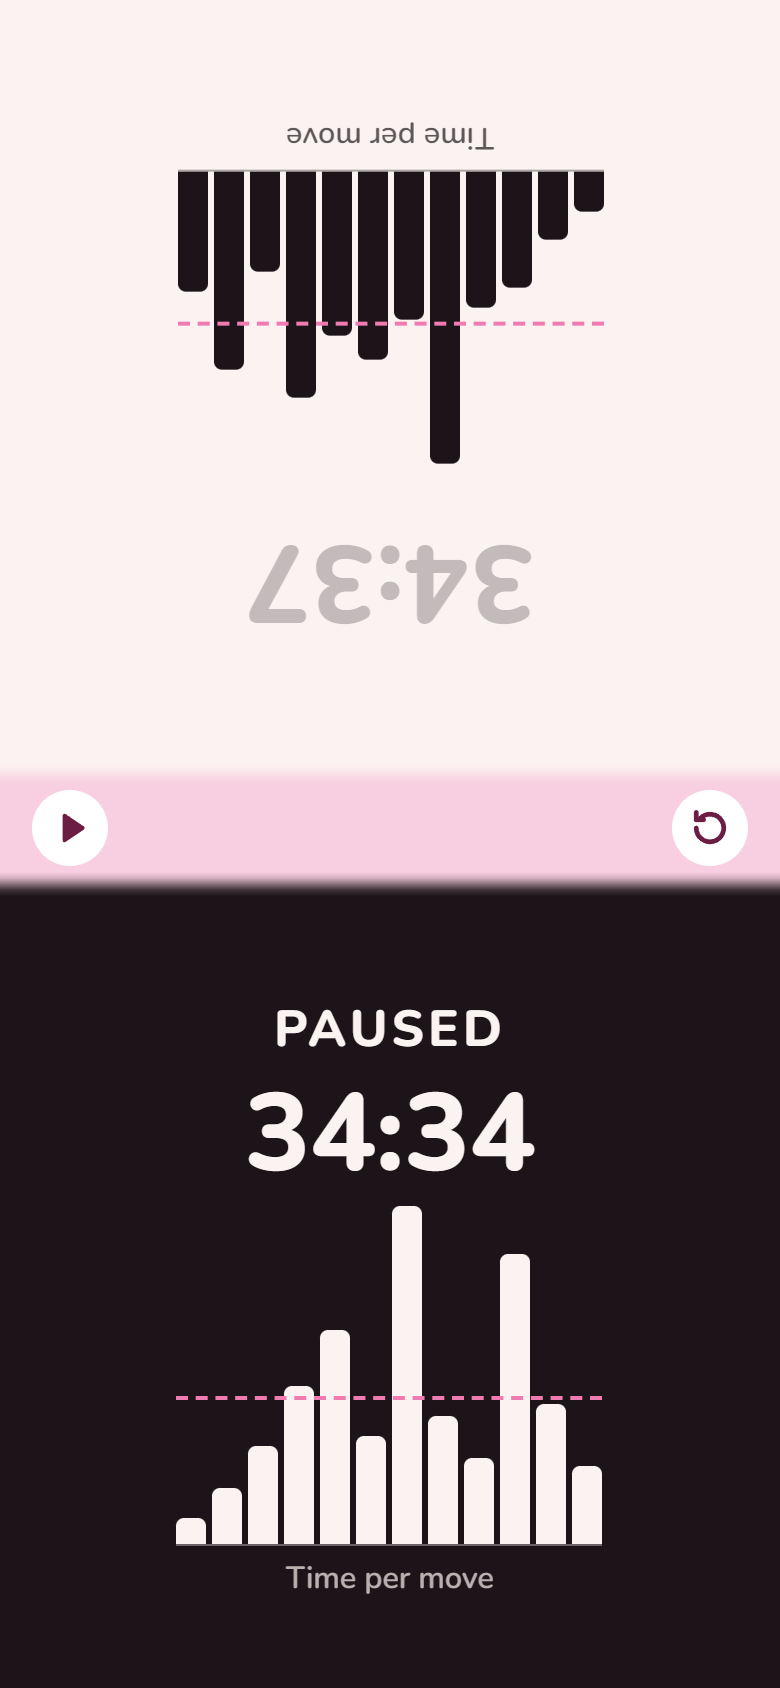
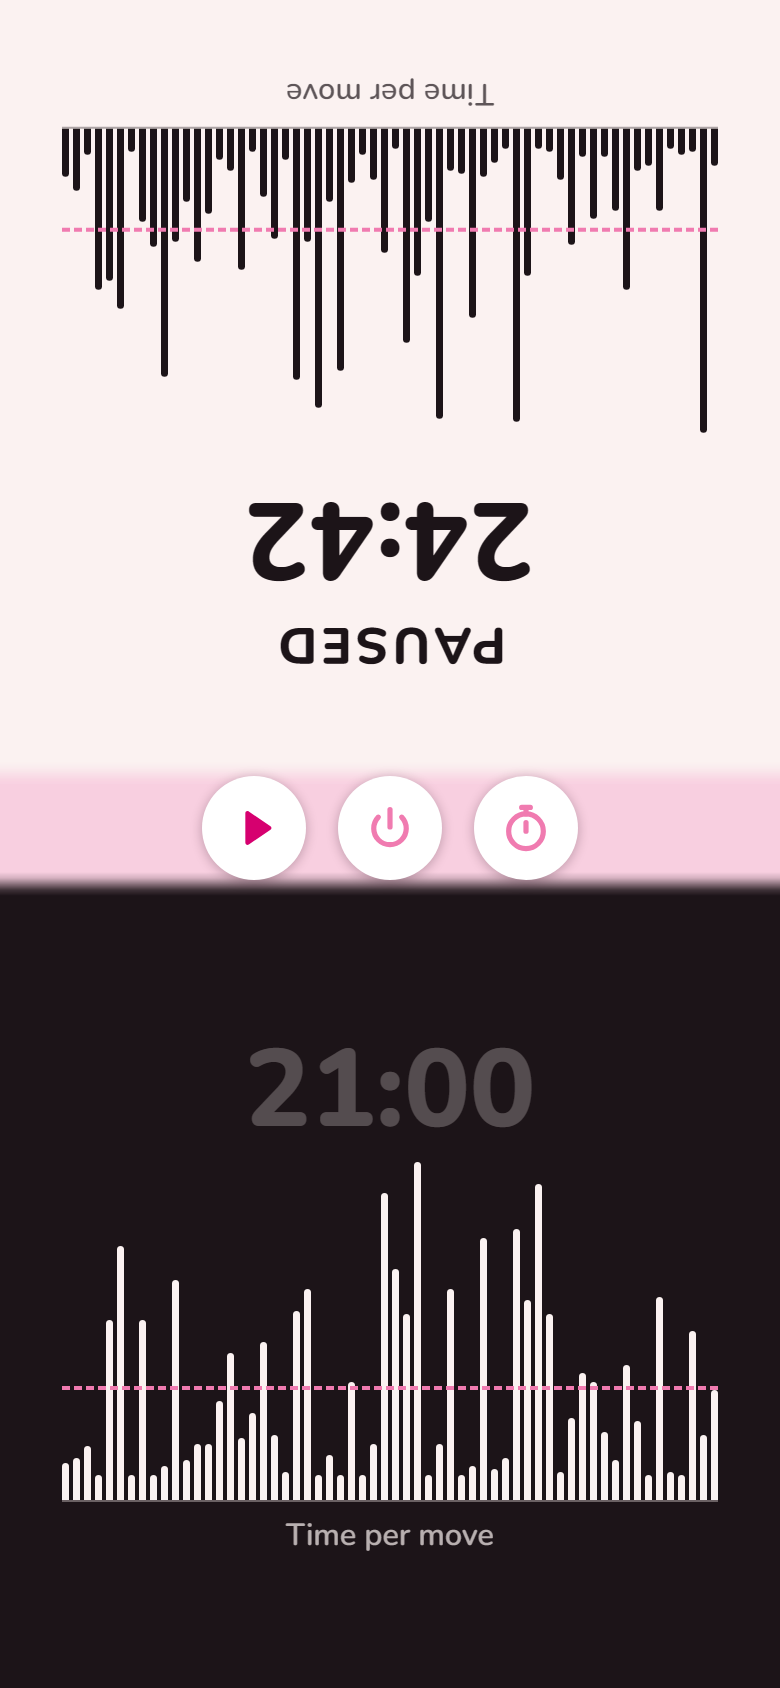
README and pictures updated: pause menu, adjust time, chart, expected game length; new screenshots and theme GIFs

diff --git a/README.md b/README.md
@@ -26,10 +26,11 @@ Both are the same timer, and changes reach both by themselves.
 ## How to use
 
 - Tap White's half or the play button **▶** in the middle to start Black's clock. After your move, tap your own half.
-- During a game, tap the pause button or the box in the middle to pause and see the statistics. Tap a half to see a chart of the time per move. **▶** continues the game.
-- Between games, tap the box in the middle to change the time setting.
+- During a game, tap the pause button or the box in the middle to pause and see the statistics. Tap a half to see a chart of the time per move. When paused, three buttons slide out: **▶** continues the game, the power button ends it (it asks first), and the stopwatch lets you add or take away time for each player, or periods in byo-yomi.
+- Between games, tap the box in the middle to change the time setting. It also shows how long a game will probably take, for a 19×19, 13×13 or 9×9 board.
+- Leaving the app during a game pauses the clock.
 
-<p><img src="images/stats.png" alt="The statistics while paused" width="200">&nbsp;&nbsp;&nbsp;&nbsp;&nbsp;<img src="images/chart.png" alt="A tap shows the time per move as a chart" width="200">&nbsp;&nbsp;&nbsp;&nbsp;&nbsp;<img src="images/settings.png" alt="The time settings" width="200"></p>
+<p><img src="images/stats.png" alt="The statistics while paused, with resume, end game and adjust time in the middle" width="170">&nbsp;&nbsp;&nbsp;<img src="images/chart.png" alt="A tap shows the time per move as a chart" width="170">&nbsp;&nbsp;&nbsp;<img src="images/adjust.png" alt="Adjusting each player's time" width="170">&nbsp;&nbsp;&nbsp;<img src="images/settings.png" alt="The time settings, with the expected game length" width="170"></p>
 
 ## Time settings
 
